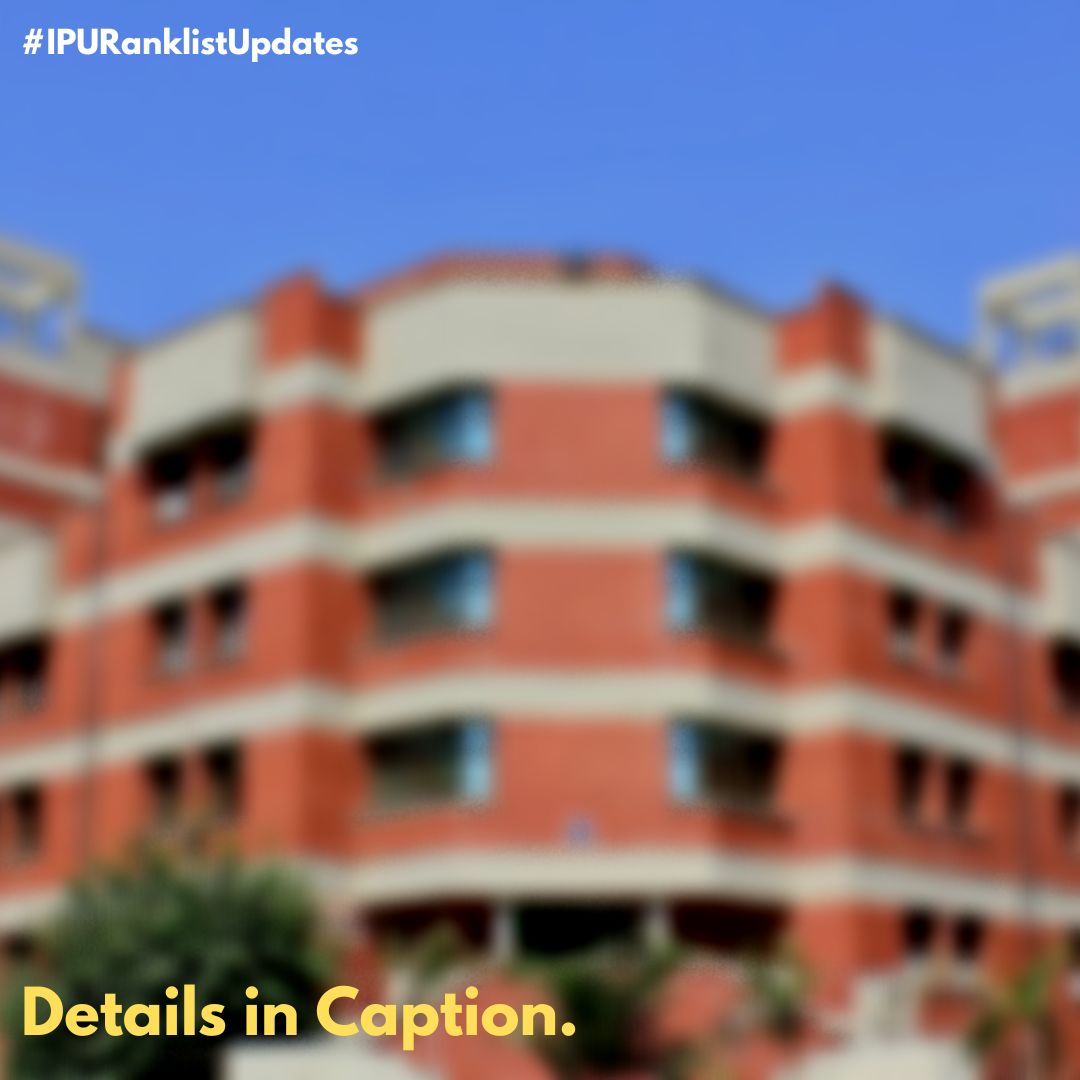
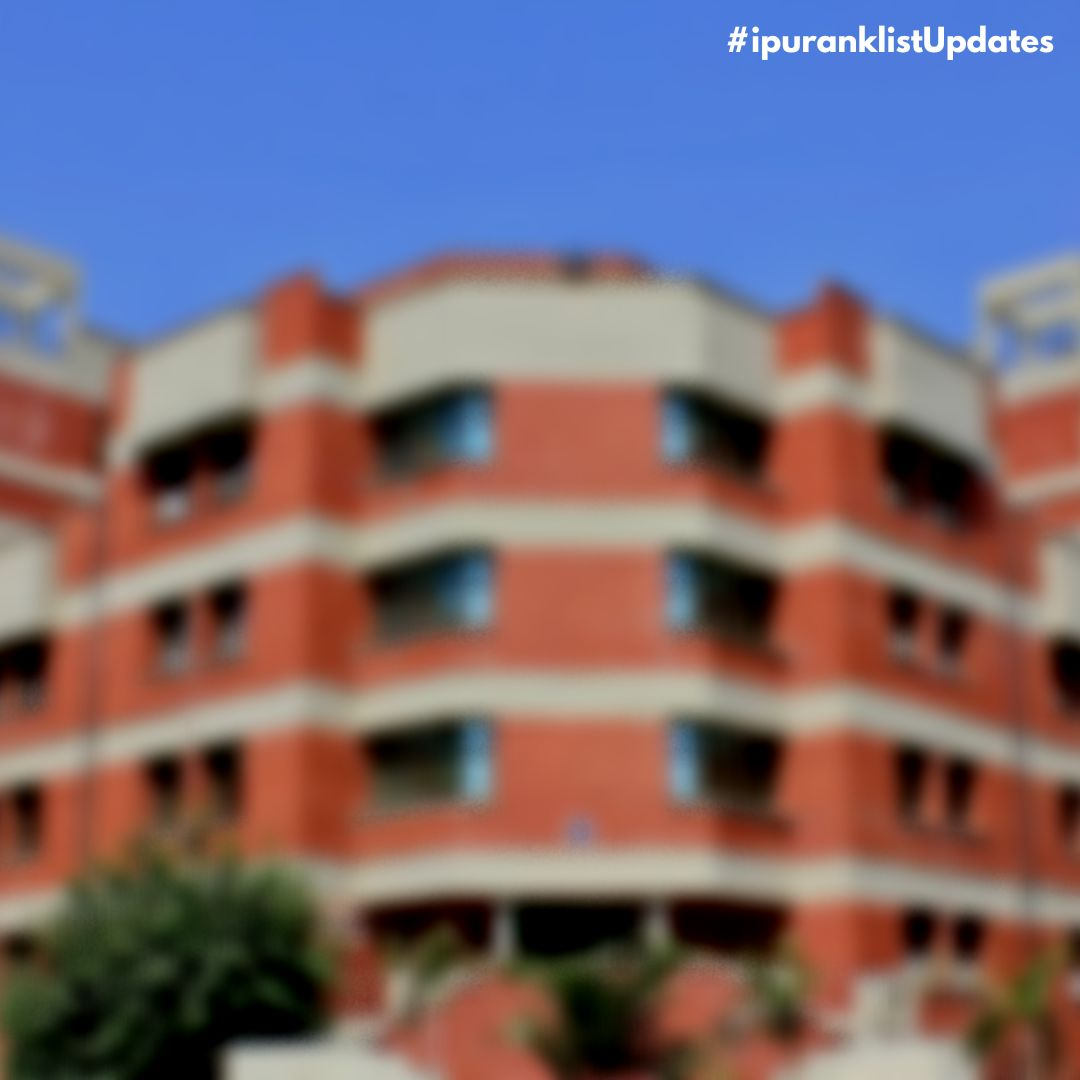
Refactored & modularized python code. Improved prep image. New design of image. Made the entire thing enviroment dynamic

Changed region(s): [[0.0, 0.8861, 0.55, 0.9778], [0.0, 0.0, 0.3361, 0.0611], [0.6722, 0.0, 0.9778, 0.0611]]

diff --git a/services/config.py b/services/config.py
@@ -1,0 +1,42 @@
+# --- BASIC CONFIGS ---
+ENVIRONMENT = 'environment'
+ENTRY_TYPE = 'entryType'
+MESSAGE = 'message'
+
+ENV_DEVELOPMENT = 'development'
+ENV_PRODUCTION = 'production'
+# --- --- 
+
+
+# --- INSTAGRAM CONFIGS ---
+INSTA_USERNAMES = {
+    ENV_DEVELOPMENT: 'ipur_test_account',
+    ENV_PRODUCTION: 'ipuranklist'
+}
+INSTA_PASSWORD_KEYS = {
+    ENV_DEVELOPMENT: 'INSTA_PASSWORD_DEV',
+    ENV_PRODUCTION: 'INSTA_PASSWORD'
+}
+# --- --- 
+
+
+# --- IMAGE CONFIGS ---
+IMG_PATH = './assets/img/prep.jpg'
+FONT_PATH = './assets/font/LeagueSpartan-Bold.ttf'
+FINISHED_IMG_PATH = './assets/img/completed.jpg'
+
+TITLE_TEXT_FONT_SIZE = 180
+TITLE_TEXT_POSITION = (50, 500)
+TITLE_TEXT_COLOR = (256, 256, 256)
+TITLE_TEXT_LINE_SPACING = 20
+TITLE_TEXTS = {
+        'result': 'new\nresults\nout.',
+        'datesheet': 'new\ndatesheets\nout.',
+        'circular': 'new\ncirculars\nout.',
+    }
+
+SUBTITLE_TEXT_FONT_SIZE = 70
+SUBTITLE_TEXT_POSITION = (50, 975)
+SUBTITLE_TEXT_COLOR = (256, 222, 89)
+SUBTITLE_TEXT = 'details in caption.'
+# --- --- 

diff --git a/ipur_instabot.py b/ipur_instabot.py
@@ -1,0 +1,34 @@
+from services import config
+from services.logger import init_logger
+from services.load_inputs import load_inputs
+from services.img_generator import generate_image
+from services.insta_uploader import upload_post
+
+
+# --- Uncomment these for local testing ---
+# import os
+# os.environ['INSTA_PASSWORD'] = 'asdf'
+# os.environ['INSTA_PASSWORD_DEV'] = 'asdf'
+# ENV_PRODUCTION = 'production'
+# --- ---
+
+class IPURInstaBot(object):
+    def __init__(self):
+        self.logger = init_logger()
+        self.environment = config.ENV_DEVELOPMENT
+        self.entry_type = None
+        self.caption = None
+        self.insta_username = None
+        self.insta_password = None
+
+    def main(self):
+        load_inputs(self)
+        generate_image(self)
+        upload_post(self)
+
+
+# --- EXECUTE MAIN ---
+if __name__ == '__main__':
+    ipur_insta_bot = IPURInstaBot()
+    ipur_insta_bot.main()
+# --- ---

diff --git a/services/img_generator.py b/services/img_generator.py
@@ -1,0 +1,20 @@
+from PIL import Image, ImageFont, ImageDraw
+from . import config
+
+def generate_image(self):
+    # Draw Image
+    img = Image.open(config.IMG_PATH)
+    draw = ImageDraw.Draw(img)
+    
+    # Add Title
+    font = ImageFont.truetype(config.FONT_PATH, config.TITLE_TEXT_FONT_SIZE)
+    draw.text(config.TITLE_TEXT_POSITION, config.TITLE_TEXTS.get(self.entry_type), config.TITLE_TEXT_COLOR, font = font, spacing = config.TITLE_TEXT_LINE_SPACING)
+    
+    # Add Subtitle
+    font = ImageFont.truetype(config.FONT_PATH, config.SUBTITLE_TEXT_FONT_SIZE)
+    draw.text(config.SUBTITLE_TEXT_POSITION, config.SUBTITLE_TEXT, config.SUBTITLE_TEXT_COLOR, font = font)
+    
+    # Save Image
+    img.save(config.FINISHED_IMG_PATH)
+    self.logger.info("Img Generation Success")
+    return config.FINISHED_IMG_PATH

diff --git a/services/load_inputs.py b/services/load_inputs.py
@@ -1,0 +1,16 @@
+import json, os, sys
+from . import config
+
+def load_inputs(self):
+    payload = json.loads(sys.argv[1])
+    self.environment = payload[config.ENVIRONMENT]
+    self.entry_type = payload[config.ENTRY_TYPE]
+    self.caption = payload[config.MESSAGE]
+    self.logger.info(f'Payload: { self.environment } - { self.entry_type }')
+    self.insta_username = config.INSTA_USERNAMES[self.environment]
+    insta_password_key = config.INSTA_PASSWORD_KEYS[self.environment]
+    try:
+        self.insta_password = os.environ[insta_password_key]
+    except KeyError:
+        self.logger.info('Instagram password not available!')
+        raise

diff --git a/services/insta_uploader.py b/services/insta_uploader.py
@@ -1,0 +1,18 @@
+import sys, os
+from . import config
+
+# --- Importing customized instabot lib ---
+from pathlib import Path
+path_root = f'{Path(__file__).parents[1]}/lib'
+print(path_root)
+sys.path.append(str(path_root))
+from instabot import Bot
+# --- ---
+
+def upload_post(self):
+    bot = Bot()
+    instaUsername = config.INSTA_USERNAMES[self.environment]
+    instaPassword = os.environ[config.INSTA_PASSWORD_KEYS[self.environment]]
+    bot.login(username = instaUsername, password = instaPassword)
+    bot.upload_photo(config.FINISHED_IMG_PATH, self.caption)
+    self.logger.info("Img Upload Success")

diff --git a/services/logger.py b/services/logger.py
@@ -1,0 +1,19 @@
+import logging
+import logging.handlers
+
+# --- Setting up Logging ---
+LOG_FILE_NAME = 'status.log'
+def init_logger():
+    logger = logging.getLogger(__name__)
+    logger.setLevel(logging.DEBUG)
+    logger_file_handler = logging.handlers.RotatingFileHandler(
+        LOG_FILE_NAME,
+        maxBytes = 1024 * 1024,
+        backupCount = 2,
+        encoding = "utf8",
+    )
+    formatter = logging.Formatter("%(asctime)s - %(name)s - %(levelname)s - %(message)s")
+    logger_file_handler.setFormatter(formatter)
+    logger.addHandler(logger_file_handler)
+    return logger
+# --- ---
